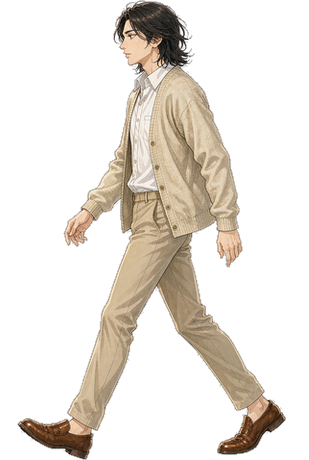
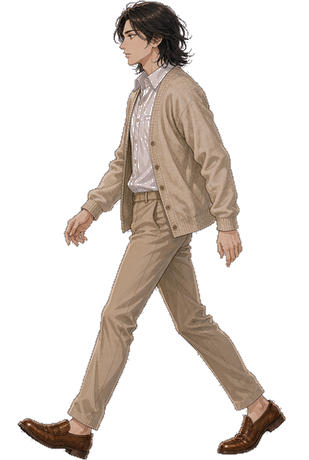
fix: 林知夏侧面走姿偏浅，按站姿做明度对齐
上一版把走姿回滚成「未调色」的原始素材，结果从一个极端跑到另一个极端：
站姿躯干中位色 (177,148,123)，走姿 (199,178,143)，整整亮了 25 档，
走动时看着像换了一件浅色外套。

这次不再用 color-match 的逐通道 Lab 均值迁移（它把米色染成灰绿过），
改成整体等比缩放：以正面/侧面站姿躯干色的中值为目标，只对非白像素乘一个
RGB 三通道增益，色相不变。

- 目标色取 (171,145,119)（正面 166,143,115 与侧面 177,148,123 的中间值），
  这样走姿与任一朝向待机的落差都不超过 5
- lin_walk1: (199,178,143) → (172,145,117)
- lin_walk2: (202,179,144) → (168,145,121)
- 白衬衫、白鞋（三通道 > 236）不参与，避免发灰
- 图片版本串 ?v=8 → ?v=9，避免预览面板吃缓存旧图

Changed region(s): [[0.1748, 0.0, 0.8738, 0.9435], [0.7282, 0.9435, 0.7573, 0.9739], [0.0874, 0.913, 0.1165, 0.9435]]

diff --git a/campus-life/web/bundle.js b/campus-life/web/bundle.js
@@ -2095,7 +2095,7 @@ function walkTexture(id, n, view) {
   // 侧面沿用旧命名；正面 / 背面加 f / b 后缀，各自是独立素材
   const tail = v === 'front' ? '_walk_f' + n : v === 'back' ? '_walk_b' + n : '_walk' + n;
   // 换图后必须带版本串：预览面板会按 URL 缓存旧图，导致「站着是新形象、一走还是旧图」
-  img.src = STANDEE_SRC + id + tail + '.png?v=8';
+  img.src = STANDEE_SRC + id + tail + '.png?v=9';
   return null;
 }
 

diff --git a/campus-life/miniprogram/engine/renderer.js b/campus-life/miniprogram/engine/renderer.js
@@ -183,7 +183,7 @@ function walkTexture(id, n, view) {
   // 侧面沿用旧命名；正面 / 背面加 f / b 后缀，各自是独立素材
   const tail = v === 'front' ? '_walk_f' + n : v === 'back' ? '_walk_b' + n : '_walk' + n;
   // 换图后必须带版本串：预览面板会按 URL 缓存旧图，导致「站着是新形象、一走还是旧图」
-  img.src = STANDEE_SRC + id + tail + '.png?v=8';
+  img.src = STANDEE_SRC + id + tail + '.png?v=9';
   return null;
 }
 
